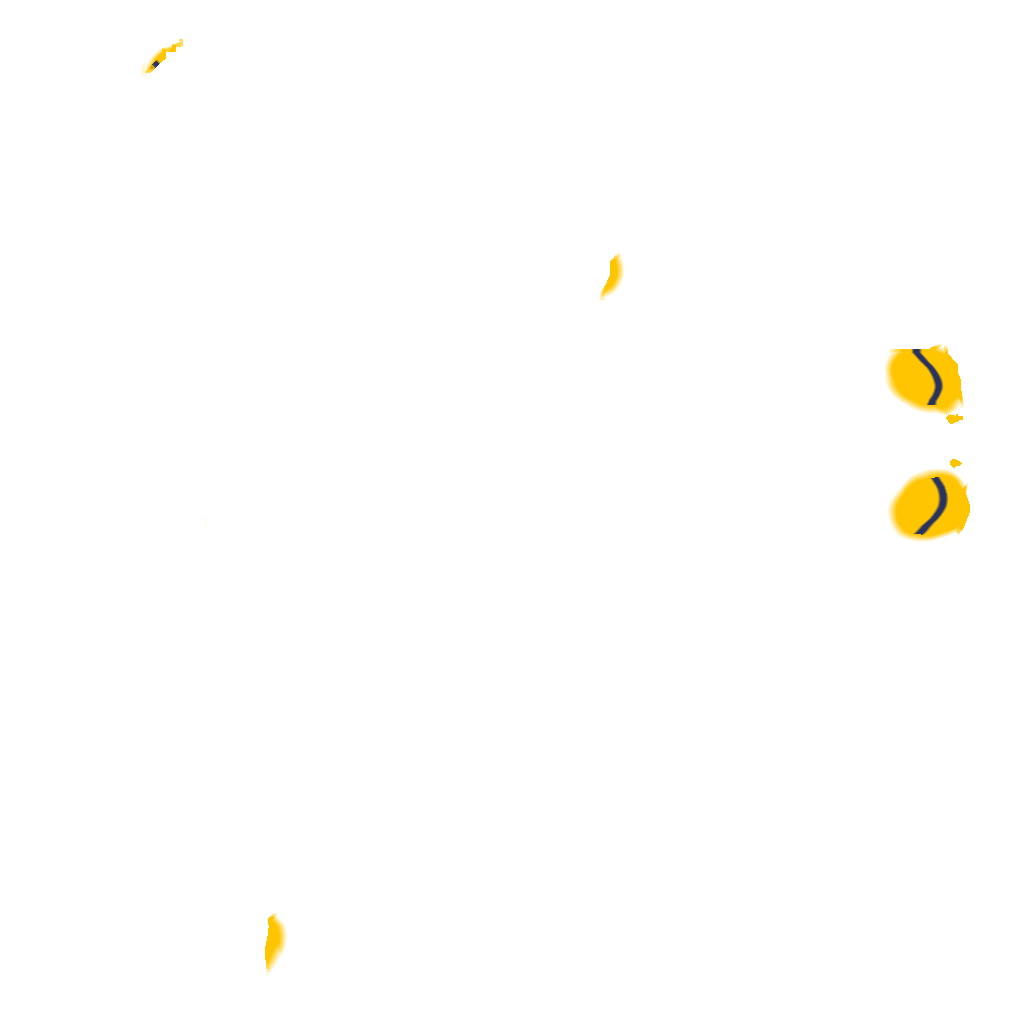
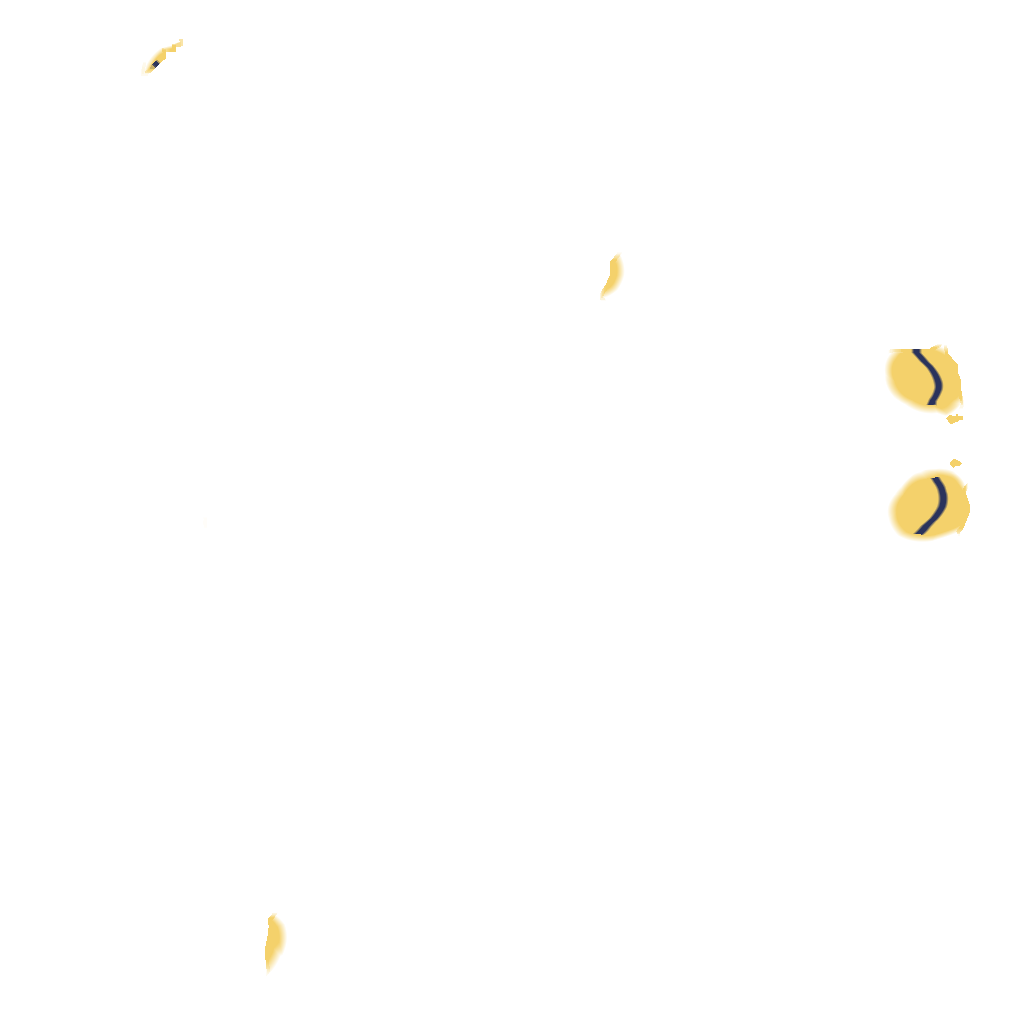
Release 20261206b (src e87af4e)

diff --git a/js/bee.js b/js/bee.js
@@ -1,1 +1,1 @@
-const BEE={url:"img/models/mon_bee",v:1,face:null,stingG:null,stingM:null},BEE_S=1.55,BEE_HOVER=1.15;function beeMats(){BEE.face||(BEE.face=monFaceTex(BEE.url,BEE.v))}const BEE_WOB="\n  {vec3 p0=transformed;float ax=abs(p0.x),sx=sign(p0.x);\n   float ww=max(smoothstep(-0.2,-0.27,p0.z),smoothstep(0.24,0.3,ax)*smoothstep(-0.02,-0.08,p0.z));/* 翅膀：背後那片＋往兩側伸出去的部分 */\n   if(ww>0.){float a=uBee.x*ww*sx;vec2 d=vec2(p0.x,p0.z+0.22);transformed.xz=vec2(d.x*cos(a)+d.y*sin(a),-d.x*sin(a)+d.y*cos(a)-0.22);}\n   float wa=smoothstep(0.24,0.32,p0.y)*smoothstep(0.05,0.1,ax);/* 觸角：頭頂兩根 */\n   if(wa>0.){float a=uBee.y*wa*sx;vec2 pv=vec2(0.08*sx,0.24);vec2 d=p0.xy-pv;transformed.xy=pv+vec2(d.x*cos(a)-d.y*sin(a),d.x*sin(a)+d.y*cos(a));}}";function makeBee(e=1){beeMats();const t=new THREE.Group,a=new THREE.Group;t.add(a),a.scale.setScalar(1.55*e);const n={value:new THREE.Vector2},s=new THREE.MeshToonMaterial({color:16777215,map:BEE.face.open,gradientMap:"undefined"!=typeof gradSoft?gradSoft:gradMap,emissive:0});matWrap(s,"beewob",e=>{e.uniforms.uBee=n,e.vertexShader="uniform vec2 uBee;\n"+e.vertexShader.replace("#include <begin_vertex>","#include <begin_vertex>"+BEE_WOB)});const o=new THREE.MeshDepthMaterial({depthPacking:THREE.RGBADepthPacking});matWrap(o,"beewobd",e=>{e.uniforms.uBee=n,e.vertexShader="uniform vec2 uBee;\n"+e.vertexShader.replace("#include <begin_vertex>","#include <begin_vertex>"+BEE_WOB)}),mpetGeo(BEE.url+".bin?v="+BEE.v,e=>{if(!e)return;const t=new THREE.Mesh(e,s);t.castShadow=!0,t.customDepthMaterial=o,a.add(t)});let i="";const setFace=e=>{const t=monFaceKey(e);t!==i&&(i=t,s.map=BEE.face[t]||BEE.face.open)};return setFace("open"),{g:t,m:a,tick:function tick(e,t){n.value.set(.42*Math.sin(e*(t?58:44)),.12*Math.sin(3.1*e)+.03*Math.sin(17*e)),a.position.y=.09*Math.sin(3.2*e)+.012*Math.sin(27*e),a.rotation.z=.06*Math.sin(2.3*e)},setFace,mat:s}}function beePreload(){beeMats(),mpetGeo(BEE.url+".bin?v="+BEE.v,()=>{})}function beeSpawn(e){const t=treantSpot(e,16);if(!t)return;const[a,n]=t,s=makeBee(1),o=s.g;o.scale.setScalar(.01);const{bar:i,fg:r}=fmonBar(o,1.05);o.position.set(a,fH(a,n)+1.15,n),scene.add(o);const c=isNight(),p=monLvPick(monZoneOf(e)),h=Math.round(1.6*monHpL(c?6:4,.8,p));monsters.push({fmon:1,bee:1,upd:beeMon,forest:e.id,X:s,g:o,c:{m:s.m,setFace:s.setFace},mat:s.mat,bar:i,fg:r,x:a,z:n,y:1.15,vy:0,hp:h,max:h,size:1,rad:.5,t:5*Math.random(),dir:6.28*Math.random(),wt:R(1,3),kx:0,kz:0,cool:0,dead:-1,flash:0,spawn:0,ifr:0,shake:0,night:c,sq:0,sqv:0,ml:p,xpT:monXp(p,c?MON_TIER.beeN:MON_TIER.bee),dmg:monDmg(c?4:2,p),coin:c?8:6,xpN:c?12:10,xpV:3,gem:.05,st:"roam",stT:0,orb:Math.random()<.5?1:-1,stingT:R(3,5),diveT:R(2,3.5)})}const BEE_STINGS=[];function beeSting(e){BEE.stingG||(BEE.stingG=new THREE.ConeGeometry(.06,.32,8),BEE.stingG.rotateX(Math.PI/2),BEE.stingM=new THREE.MeshBasicMaterial({color:5913118}));const t=fH(e.x,e.z)+e.y,a=ply.y+.7,n=ply.x-e.x,s=ply.z-e.z,o=Math.hypot(n,s)||1,i=new THREE.Mesh(BEE.stingG,BEE.stingM);i.position.set(e.x,t,e.z),i.lookAt(ply.x,a,ply.z),scene.add(i);BEE_STINGS.push({s:i,vx:n/o*11,vz:s/o*11,vy:(a-t)/o*11,t:0,m:e}),SFX.whoosh&&SFX.whoosh()}function beeStingsTick(e){for(let t=BEE_STINGS.length-1;t>=0;t--){const a=BEE_STINGS[t],n=a.s.position;a.t+=e,n.x+=a.vx*e,n.y+=a.vy*e,n.z+=a.vz*e,Math.random()<.4&&burst(n.x,n.y,n.z,[16769658,16774856],1,.6,partG,.25,0);const s=Math.hypot(ply.x-n.x,ply.z-n.z)<.55&&Math.abs(ply.y+.7-n.y)<.8;if(s&&ply.ifr<=0&&!ply.riding&&!ply.downed&&!tryDodge(a.m)){const e=a.m;ply.ifr=.7,ply.hp-=takeDmg(Math.max(1,Math.round(.7*e.dmg)),e),SFX.hurt(),P.sqv-=3,hurtFX(),updateHUD(),burst(n.x,n.y,n.z,[16769658,16777215],8,3),ply.hp<=0&&(ply.hp=0,playerKO("被澎蜂的毒針射倒了…"))}(s||a.t>1.6||n.y<fH(n.x,n.z))&&(scene.remove(a.s),BEE_STINGS.splice(t,1))}}function beeMon(e,t,a){{const e=renderer.info.render.frame;BEE_STINGS._f!==e&&(BEE_STINGS._f=e,beeStingsTick(t))}if(!fmonPre(e,t,a,e=>{const t=fH(e.x,e.z)+e.y;burst(e.x,t,e.z,[16765502,16774084,7028511,16777215],20,5),puff(e.x,t,e.z,16774876,1),SFX.squish&&SFX.squish()}))return;const n=e.X,s=e.stunT>0||e.frozenT>0,o=ply.x-e.x,i=ply.z-e.z,r=Math.hypot(o,i)||.01,c=fmonSee()&&fFloor(ply.x).id===e.forest,p=e.slowT>0?e.slowF||.6:1;let h=0,d=0,l=!1,m=null,E=1.15;if(e.cool-=t,e.stT-=t,e.stingT-=t,e.diveT-=t,s)E=.55;else if(c&&r<12)if(e.faceLock="angry",m=Math.atan2(o,i),l=!0,"wind"===e.st)h=-o/r*1.6,d=-i/r*1.6,E=1.4,e.shake=Math.max(e.shake,.05),e.stT<=0&&(e.st="dive",e.stT=.42,e.dvx=o/r,e.dvz=i/r,SFX.whoosh&&SFX.whoosh());else if("dive"===e.st)h=12*e.dvx,d=12*e.dvz,E=.75,m=Math.atan2(e.dvx,e.dvz),Math.random()<.6&&burst(e.x,fH(e.x,e.z)+e.y,e.z,[16774084,16777215],1,1,partG,.3,0),r<.95+e.rad&&e.cool<=0&&ply.ifr<=0&&!ply.riding&&!ply.sitting&&!tryDodge(e)&&(e.cool=1.2,fmonBite(e,o,i,r,"被澎蜂刺倒了…"),burst(ply.x,ply.y+.8,ply.z,[16765502,16777215],10,3.5),e.stT=0),e.stT<=0&&(e.st="chase",e.diveT=R(3,4.5));else if("aim"===e.st)E=1.15+.15,n.m.rotation.x=-.35*(1-Math.max(0,e.stT)/.5),e.stT<=0&&(beeSting(e),e.st="chase",e.stingT=R(4,6),n.m.rotation.x=0);else{e.st="chase";const a=r-2.6,n=-i/r*e.orb,s=o/r*e.orb;h=(o/r*Math.max(-1,Math.min(1,a))*3.2+2.2*n)*p,d=(i/r*Math.max(-1,Math.min(1,a))*3.2+2.2*s)*p,Math.random()<.3*t&&(e.orb*=-1),e.diveT<=0&&r<5?(e.st="wind",e.stT=.55):e.stingT<=0&&r>3.5&&r<9&&(e.st="aim",e.stT=.5)}else"roam"!==e.st&&(e.st="roam",e.faceLock=null,n.m.rotation.x=0),e.wt-=t,e.wt<=0&&(e.wt=R(2,4),e.dir=Math.random()<.3?-1:6.28*Math.random()),e.dir>=0&&(h=1.6*Math.sin(e.dir),d=1.6*Math.cos(e.dir));e.x+=(h+e.kx)*t,e.z+=(d+e.kz)*t,e.kx*=Math.pow(.008,t),e.kz*=Math.pow(.008,t),fmonCollide(e),forestClamp(e,.8),e.y+=(E-e.y)*Math.min(1,t*("dive"===e.st?8:3));let f=0,x=0;e.shake>0&&(e.shake-=t,f=.08*Math.sin(90*e.shake),x=.06*Math.cos(70*e.shake)),e.g.position.set(e.x+f,fH(e.x,e.z)+e.y,e.z+x),fmonTurn(e,h,d,m,t,8),Math.hypot(e.x-ply.x,e.z-ply.z)<60&&n.tick(e.t,l||"dive"===e.st)}
+const BEE={url:"img/models/mon_bee",v:2,face:null,stingG:null,stingM:null},BEE_S=1.55,BEE_HOVER=1.15;function beeMats(){BEE.face||(BEE.face=monFaceTex(BEE.url,BEE.v))}const BEE_WOB="\n  {vec3 p0=transformed;float ax=abs(p0.x),sx=sign(p0.x);\n   float ww=max(smoothstep(-0.2,-0.27,p0.z),smoothstep(0.24,0.3,ax)*smoothstep(-0.02,-0.08,p0.z));/* 翅膀：背後那片＋往兩側伸出去的部分 */\n   if(ww>0.){float a=uBee.x*ww*sx;vec2 d=vec2(p0.x,p0.z+0.22);transformed.xz=vec2(d.x*cos(a)+d.y*sin(a),-d.x*sin(a)+d.y*cos(a)-0.22);}\n   float wa=smoothstep(0.24,0.32,p0.y)*smoothstep(0.05,0.1,ax);/* 觸角：頭頂兩根 */\n   if(wa>0.){float a=uBee.y*wa*sx;vec2 pv=vec2(0.08*sx,0.24);vec2 d=p0.xy-pv;transformed.xy=pv+vec2(d.x*cos(a)-d.y*sin(a),d.x*sin(a)+d.y*cos(a));}}";function makeBee(e=1){beeMats();const t=new THREE.Group,a=new THREE.Group;t.add(a),a.scale.setScalar(1.55*e);const n={value:new THREE.Vector2},s=new THREE.MeshToonMaterial({color:16777215,map:BEE.face.open,gradientMap:"undefined"!=typeof gradSoft?gradSoft:gradMap,emissive:0});matWrap(s,"beewob",e=>{e.uniforms.uBee=n,e.vertexShader="uniform vec2 uBee;\n"+e.vertexShader.replace("#include <begin_vertex>","#include <begin_vertex>"+BEE_WOB)});const o=new THREE.MeshDepthMaterial({depthPacking:THREE.RGBADepthPacking});matWrap(o,"beewobd",e=>{e.uniforms.uBee=n,e.vertexShader="uniform vec2 uBee;\n"+e.vertexShader.replace("#include <begin_vertex>","#include <begin_vertex>"+BEE_WOB)}),mpetGeo(BEE.url+".bin?v="+BEE.v,e=>{if(!e)return;const t=new THREE.Mesh(e,s);t.castShadow=!0,t.customDepthMaterial=o,a.add(t)});let i="";const setFace=e=>{const t=monFaceKey(e);t!==i&&(i=t,s.map=BEE.face[t]||BEE.face.open)};return setFace("open"),{g:t,m:a,tick:function tick(e,t){n.value.set(.42*Math.sin(e*(t?58:44)),.12*Math.sin(3.1*e)+.03*Math.sin(17*e)),a.position.y=.09*Math.sin(3.2*e)+.012*Math.sin(27*e),a.rotation.z=.06*Math.sin(2.3*e)},setFace,mat:s}}function beePreload(){beeMats(),mpetGeo(BEE.url+".bin?v="+BEE.v,()=>{})}function beeSpawn(e){const t=treantSpot(e,16);if(!t)return;const[a,n]=t,s=makeBee(1),o=s.g;o.scale.setScalar(.01);const{bar:i,fg:r}=fmonBar(o,1.05);o.position.set(a,fH(a,n)+1.15,n),scene.add(o);const c=isNight(),p=monLvPick(monZoneOf(e)),h=Math.round(1.6*monHpL(c?6:4,.8,p));monsters.push({fmon:1,bee:1,upd:beeMon,forest:e.id,X:s,g:o,c:{m:s.m,setFace:s.setFace},mat:s.mat,bar:i,fg:r,x:a,z:n,y:1.15,vy:0,hp:h,max:h,size:1,rad:.5,t:5*Math.random(),dir:6.28*Math.random(),wt:R(1,3),kx:0,kz:0,cool:0,dead:-1,flash:0,spawn:0,ifr:0,shake:0,night:c,sq:0,sqv:0,ml:p,xpT:monXp(p,c?MON_TIER.beeN:MON_TIER.bee),dmg:monDmg(c?4:2,p),coin:c?8:6,xpN:c?12:10,xpV:3,gem:.05,st:"roam",stT:0,orb:Math.random()<.5?1:-1,stingT:R(3,5),diveT:R(2,3.5)})}const BEE_STINGS=[];function beeSting(e){BEE.stingG||(BEE.stingG=new THREE.ConeGeometry(.06,.32,8),BEE.stingG.rotateX(Math.PI/2),BEE.stingM=new THREE.MeshBasicMaterial({color:5913118}));const t=fH(e.x,e.z)+e.y,a=ply.y+.7,n=ply.x-e.x,s=ply.z-e.z,o=Math.hypot(n,s)||1,i=new THREE.Mesh(BEE.stingG,BEE.stingM);i.position.set(e.x,t,e.z),i.lookAt(ply.x,a,ply.z),scene.add(i);BEE_STINGS.push({s:i,vx:n/o*11,vz:s/o*11,vy:(a-t)/o*11,t:0,m:e}),SFX.whoosh&&SFX.whoosh()}function beeStingsTick(e){for(let t=BEE_STINGS.length-1;t>=0;t--){const a=BEE_STINGS[t],n=a.s.position;a.t+=e,n.x+=a.vx*e,n.y+=a.vy*e,n.z+=a.vz*e,Math.random()<.4&&burst(n.x,n.y,n.z,[16769658,16774856],1,.6,partG,.25,0);const s=Math.hypot(ply.x-n.x,ply.z-n.z)<.55&&Math.abs(ply.y+.7-n.y)<.8;if(s&&ply.ifr<=0&&!ply.riding&&!ply.downed&&!tryDodge(a.m)){const e=a.m;ply.ifr=.7,ply.hp-=takeDmg(Math.max(1,Math.round(.7*e.dmg)),e),SFX.hurt(),P.sqv-=3,hurtFX(),updateHUD(),burst(n.x,n.y,n.z,[16769658,16777215],8,3),ply.hp<=0&&(ply.hp=0,playerKO("被澎蜂的毒針射倒了…"))}(s||a.t>1.6||n.y<fH(n.x,n.z))&&(scene.remove(a.s),BEE_STINGS.splice(t,1))}}function beeMon(e,t,a){{const e=renderer.info.render.frame;BEE_STINGS._f!==e&&(BEE_STINGS._f=e,beeStingsTick(t))}if(!fmonPre(e,t,a,e=>{const t=fH(e.x,e.z)+e.y;burst(e.x,t,e.z,[16765502,16774084,7028511,16777215],20,5),puff(e.x,t,e.z,16774876,1),SFX.squish&&SFX.squish()}))return;const n=e.X,s=e.stunT>0||e.frozenT>0,o=ply.x-e.x,i=ply.z-e.z,r=Math.hypot(o,i)||.01,c=fmonSee()&&fFloor(ply.x).id===e.forest,p=e.slowT>0?e.slowF||.6:1;let h=0,d=0,l=!1,m=null,E=1.15;if(e.cool-=t,e.stT-=t,e.stingT-=t,e.diveT-=t,s)E=.55;else if(c&&r<12)if(e.faceLock="angry",m=Math.atan2(o,i),l=!0,"wind"===e.st)h=-o/r*1.6,d=-i/r*1.6,E=1.4,e.shake=Math.max(e.shake,.05),e.stT<=0&&(e.st="dive",e.stT=.42,e.dvx=o/r,e.dvz=i/r,SFX.whoosh&&SFX.whoosh());else if("dive"===e.st)h=12*e.dvx,d=12*e.dvz,E=.75,m=Math.atan2(e.dvx,e.dvz),Math.random()<.6&&burst(e.x,fH(e.x,e.z)+e.y,e.z,[16774084,16777215],1,1,partG,.3,0),r<.95+e.rad&&e.cool<=0&&ply.ifr<=0&&!ply.riding&&!ply.sitting&&!tryDodge(e)&&(e.cool=1.2,fmonBite(e,o,i,r,"被澎蜂刺倒了…"),burst(ply.x,ply.y+.8,ply.z,[16765502,16777215],10,3.5),e.stT=0),e.stT<=0&&(e.st="chase",e.diveT=R(3,4.5));else if("aim"===e.st)E=1.15+.15,n.m.rotation.x=-.35*(1-Math.max(0,e.stT)/.5),e.stT<=0&&(beeSting(e),e.st="chase",e.stingT=R(4,6),n.m.rotation.x=0);else{e.st="chase";const a=r-2.6,n=-i/r*e.orb,s=o/r*e.orb;h=(o/r*Math.max(-1,Math.min(1,a))*3.2+2.2*n)*p,d=(i/r*Math.max(-1,Math.min(1,a))*3.2+2.2*s)*p,Math.random()<.3*t&&(e.orb*=-1),e.diveT<=0&&r<5?(e.st="wind",e.stT=.55):e.stingT<=0&&r>3.5&&r<9&&(e.st="aim",e.stT=.5)}else"roam"!==e.st&&(e.st="roam",e.faceLock=null,n.m.rotation.x=0),e.wt-=t,e.wt<=0&&(e.wt=R(2,4),e.dir=Math.random()<.3?-1:6.28*Math.random()),e.dir>=0&&(h=1.6*Math.sin(e.dir),d=1.6*Math.cos(e.dir));e.x+=(h+e.kx)*t,e.z+=(d+e.kz)*t,e.kx*=Math.pow(.008,t),e.kz*=Math.pow(.008,t),fmonCollide(e),forestClamp(e,.8),e.y+=(E-e.y)*Math.min(1,t*("dive"===e.st?8:3));let f=0,x=0;e.shake>0&&(e.shake-=t,f=.08*Math.sin(90*e.shake),x=.06*Math.cos(70*e.shake)),e.g.position.set(e.x+f,fH(e.x,e.z)+e.y,e.z+x),fmonTurn(e,h,d,m,t,8),Math.hypot(e.x-ply.x,e.z-ply.z)<60&&n.tick(e.t,l||"dive"===e.st)}

diff --git a/index.html b/index.html
@@ -1,6 +1,6 @@
 <!DOCTYPE html>
 <html lang="zh-Hant">
-<head><meta name="lf-ver" content="20261206a"><script>window.JSV={"js/audio.js":"ececf928e7","js/bars.js":"8260952620","js/bee.js":"fb078b5ac9","js/cave.js":"76239ff7ae","js/cloud.js":"9c73bb52ef","js/compat.js":"69e7ff7c78","js/critter.js":"643019489f","js/daily.js":"85533c0f33","js/engine.js":"be3611f540","js/extra.js":"076fe4aeca","js/forest.js":"ebe733fb67","js/game.js":"0e94f0d65a","js/gfield.js":"9ceddc257f","js/gfx.js":"551170e461","js/gsta.js":"8e6bedf2cd","js/guild.js":"6932325442","js/harbor.js":"33017b3e03","js/interior.js":"656cae6243","js/items.js":"031e16b662","js/leakdog.js":"b60f2b89f6","js/mall.js":"c01f957a95","js/maps.js":"be1fe1fc1f","js/mats.js":"2324258d5e","js/models.js":"493c0cabf9","js/models_acc.js":"e80fbf08ee","js/models_furn.js":"65eba98ba0","js/models_gs.js":"56d434c07e","js/models_lod.js":"7b983968bf","js/models_mist.js":"d91f1c23f8","js/models_mon.js":"c6ef4e2d3e","js/models_mv.js":"cb31b0f05b","js/models_mv_core.js":"e94d702ed3","js/monlv.js":"e776dbec7c","js/mushvil.js":"fb448ea278","js/net.js":"af34c74b5e","js/party.js":"077a707d9b","js/perf.js":"3490432496","js/photo.js":"cfd58c5624","js/skills.js":"1bcd771ba3","js/slots.js":"93ebaaf14e","js/social.js":"7d5426f3db","js/three.min.js":"212dfd8fc1","js/trade.js":"a0e7344896","js/ui.js":"fc2185c3c7","js/upgrade.js":"bf334372f8","js/world.js":"e8836ec64e"};</script>
+<head><meta name="lf-ver" content="20261206b"><script>window.JSV={"js/audio.js":"ececf928e7","js/bars.js":"8260952620","js/bee.js":"3e2a71c02a","js/cave.js":"76239ff7ae","js/cloud.js":"9c73bb52ef","js/compat.js":"69e7ff7c78","js/critter.js":"643019489f","js/daily.js":"85533c0f33","js/engine.js":"be3611f540","js/extra.js":"076fe4aeca","js/forest.js":"ebe733fb67","js/game.js":"0e94f0d65a","js/gfield.js":"9ceddc257f","js/gfx.js":"551170e461","js/gsta.js":"8e6bedf2cd","js/guild.js":"6932325442","js/harbor.js":"33017b3e03","js/interior.js":"656cae6243","js/items.js":"031e16b662","js/leakdog.js":"b60f2b89f6","js/mall.js":"c01f957a95","js/maps.js":"be1fe1fc1f","js/mats.js":"2324258d5e","js/models.js":"493c0cabf9","js/models_acc.js":"e80fbf08ee","js/models_furn.js":"65eba98ba0","js/models_gs.js":"56d434c07e","js/models_lod.js":"7b983968bf","js/models_mist.js":"d91f1c23f8","js/models_mon.js":"c6ef4e2d3e","js/models_mv.js":"cb31b0f05b","js/models_mv_core.js":"e94d702ed3","js/monlv.js":"e776dbec7c","js/mushvil.js":"fb448ea278","js/net.js":"af34c74b5e","js/party.js":"077a707d9b","js/perf.js":"3490432496","js/photo.js":"cfd58c5624","js/skills.js":"1bcd771ba3","js/slots.js":"93ebaaf14e","js/social.js":"7d5426f3db","js/three.min.js":"212dfd8fc1","js/trade.js":"a0e7344896","js/ui.js":"fc2185c3c7","js/upgrade.js":"bf334372f8","js/world.js":"e8836ec64e"};</script>
 <script>/* 錯誤回報：遊戲出錯時在畫面底部顯示錯誤訊息（方便截圖回報），點一下關閉 */(function(){var shown=0;function show(m){if(shown>4)return;shown++;var d=document.getElementById('errBox');if(!d){d=document.createElement('div');d.id='errBox';d.style.cssText='position:fixed;left:8px;right:8px;bottom:8px;z-index:99999;background:rgba(160,30,40,.92);color:#fff;font:12px/1.4 monospace;padding:8px 10px;border-radius:10px;max-height:40vh;overflow:auto;white-space:pre-wrap;word-break:break-all';d.onclick=function(){d.remove();};(document.body||document.documentElement).appendChild(d);d.textContent='⚠ 遊戲發生錯誤（請截圖回報，點一下關閉）\n';}d.textContent+='\n'+m;}
 window.addEventListener('error',function(e){if(e&&e.target&&e.target!==window&&(e.target.src||e.target.href)){var u=e.target.src||e.target.href||'';if(/\/js\/[^\/]+\.js/.test(u)&&u.indexOf(location.host)>=0)show('載入失敗：'+u.split('/').pop());return;}var f=(e.filename||'').split('/').pop();show((e.message||'錯誤')+'  @ '+f+':'+(e.lineno||0)+':'+(e.colno||0));},true);
 window.addEventListener('unhandledrejection',function(e){var r=e.reason;var m=r&&(r.message||String(r))||'';if(/fetch|network|Failed to fetch|Load failed|AbortError/i.test(m))return;show('Promise：'+m);});})();</script>
@@ -1015,8 +1015,8 @@ body.darkui #chatLog div,body.darkui #hbLabel{background:rgba(0,0,0,.5)}
   <button class="qb lav close" data-close="iosFs">知道了</button></div></div>
 
 <script src="js/three.min.js?v=212dfd8fc1"></script>
-<script src="config.js?v=20261206a"></script>
-<script src="firebase-config.js?v=20261206a"></script>
+<script src="config.js?v=20261206b"></script>
+<script src="firebase-config.js?v=20261206b"></script>
 <script>/* 連線用自架伺服器（WS_URL）時不需要 Supabase 函式庫：不載入（省掉一個會擋住後面程式的外部下載） */if(!(window.LOBSTER_CONFIG&&LOBSTER_CONFIG.WS_URL))document.write('<script src="https://cdn.jsdelivr.net/npm/@supabase/supabase-js@2/dist/umd/supabase.min.js"><\/script>');</script>
 <script src="js/compat.js?v=69e7ff7c78"></script>
 <script src="js/models.js?v=493c0cabf9"></script>
@@ -1041,7 +1041,7 @@ body.darkui #chatLog div,body.darkui #hbLabel{background:rgba(0,0,0,.5)}
 <script src="js/forest.js?v=ebe733fb67"></script>
 <script src="js/gfield.js?v=9ceddc257f"></script>
 <script src="js/leakdog.js?v=b60f2b89f6"></script>
-<script src="js/bee.js?v=fb078b5ac9"></script>
+<script src="js/bee.js?v=3e2a71c02a"></script>
 
 <script src="js/net.js?v=af34c74b5e"></script>
 <script src="js/cloud.js?v=9c73bb52ef"></script>
